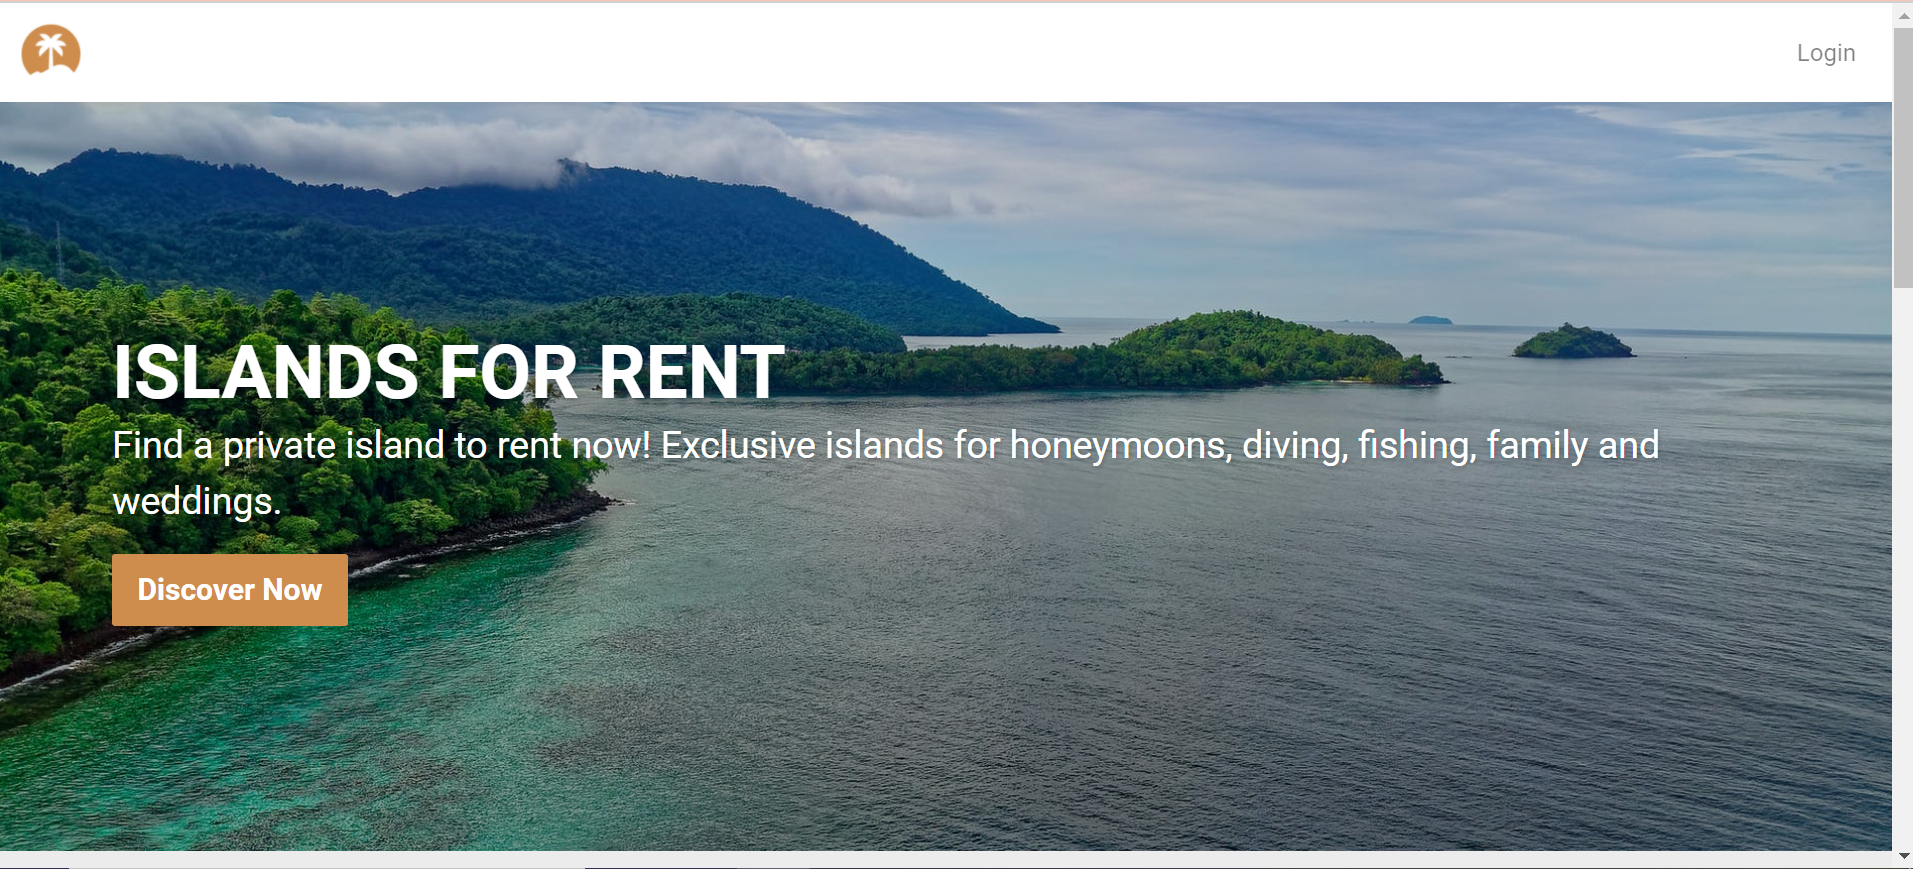
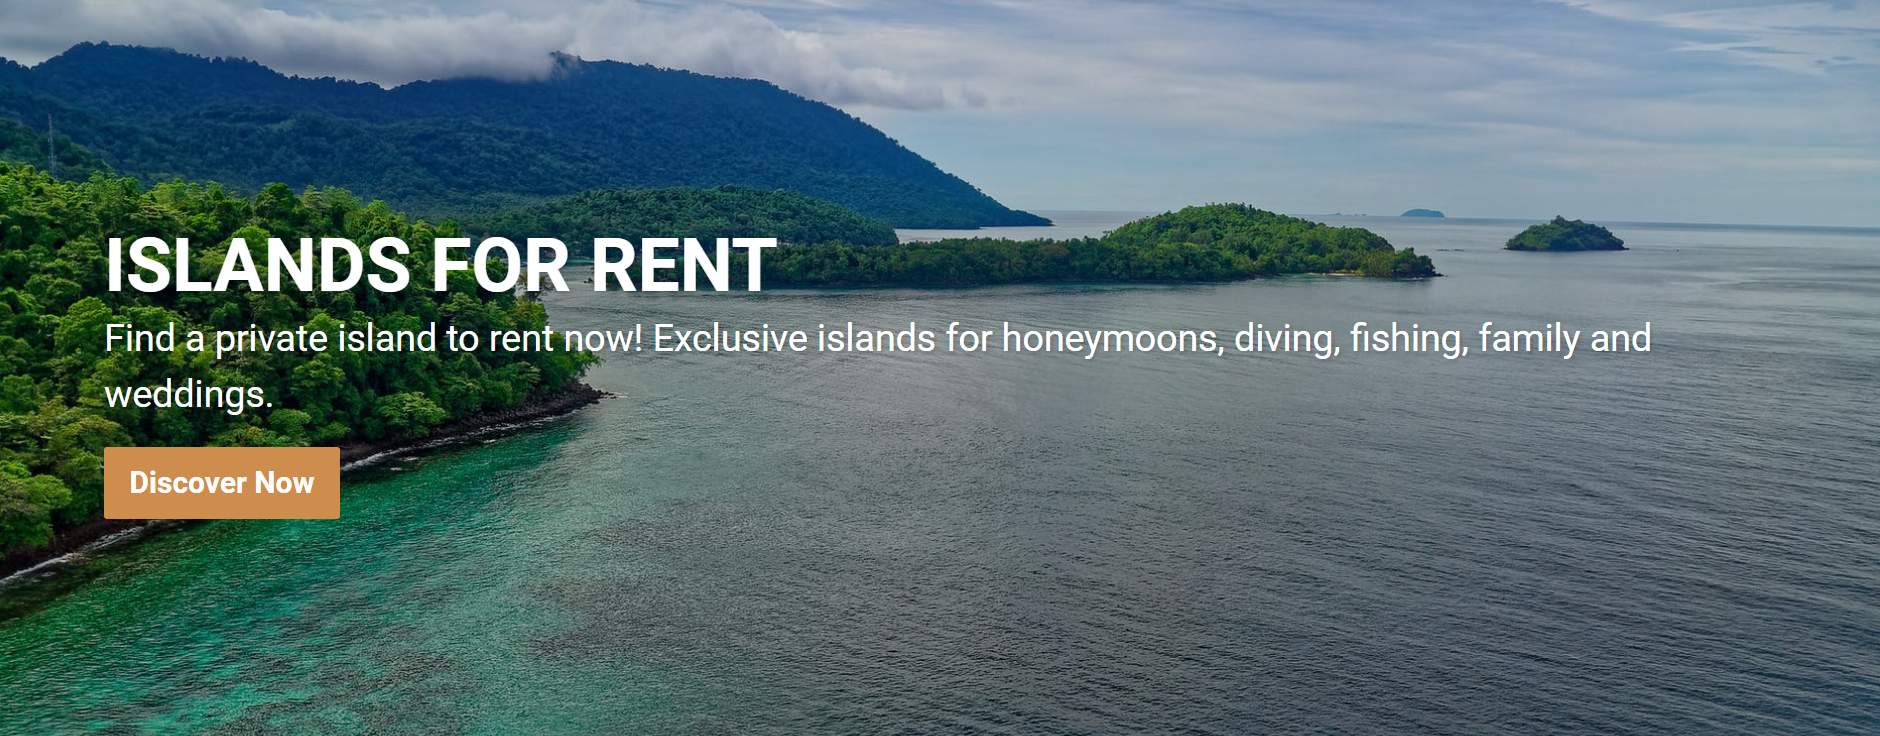
portfolio

diff --git a/style.css b/style.css
@@ -2,6 +2,10 @@
 
 body {
   color: #333;
+  background-image: url(https://images.unsplash.com/photo-1512950050685-b1d4ae63d2df?ixlib=rb-1.2.1&ixid=MnwxMjA3fDB8MHxwaG90by1wYWdlfHx8fGVufDB8fHx8&auto=format&fit=crop&w=869&q=80);
+  background-position: center;
+  background-repeat: no-repeat;
+  background-size: cover;
 }
 
 
@@ -58,23 +62,8 @@ h1 {
   margin: 8px -16px;
 }
 
-.row h2{
+h2{
   text-align: center;
-}
-
-.row > .column {
-  padding: 8px;
-}
-
-.column {
-  float: left;
-  width: 25%;
-}
-
-.row:after {
-  content: "";
-  display: table;
-  clear: both;
 }
 
 .content {
@@ -84,8 +73,13 @@ h1 {
   border-radius: 10px;
 }
 
+.image img{
+  border-radius: 25px;
+}
+
 .content img{
   border-radius: 25px;
+  margin-top: 0px
 }
 
 .content-head{
@@ -95,6 +89,11 @@ h1 {
   margin: 15px;
   background-color: #333;
   border-radius: 20px;
+}
+
+.image img{
+  margin-top: 30px;
+  border-radius: 25px;
 }
 
 .content-head p{
@@ -116,11 +115,128 @@ h1 {
 }
 
 .dev{
-  align-items: center;
-  margin-right: 70px;
+  margin-top: 50px;
 }
 
-.dev h3{
+.dev img{
+  margin-left: 370px;
+  width: 100%;
+}
+
+/* Portfolio Styles */
+
+#projects-heading {
   text-align: center;
+  font-size: 30px;
+  margin-bottom: 40px;
 }
 
+.projects-grid{
+  margin-top: 80px;
+}
+
+.items-wrapper {
+    display: grid;
+    grid-template-columns: 360px 360px;
+    justify-content: center;
+    position: relative;
+    width: 1200px;
+    height: 350px;
+    margin: -20px auto 0;
+}
+
+.item-wrapper {
+    position: relative;
+    width: calc(360px - 30px);
+    height: calc(180px - 30px);
+    background-color: #888887;
+    float:left;
+    margin: 15px;
+    box-sizing: border-box;
+    overflow: hidden;
+    box-shadow: 0 0 7px #2e2e2e,
+    0 0 10px #2e2e2e,
+    0 0 21px #2e2e2e;
+}
+
+.item-wrapper:before {
+    content: '';
+    position: absolute;
+    top: 10px;
+    left: 10px;
+    right: 10px;
+    bottom: 10px;
+    border-top: 2px solid #264e74;
+    border-bottom: 2px solid #264e74;
+    box-sizing: border-box;
+    transition: 0.5s;
+    transform: scaleX(0);
+    opacity: 0;
+    z-index: 0;
+}
+
+.item-wrapper:hover:before {
+    transform: scaleX(1);
+    opacity: 1;
+}
+
+.item-wrapper:after {
+    content: '';
+    position: absolute;
+    top: 10px;
+    left: 10px;
+    right: 10px;
+    bottom: 10px;
+    border-left: 2px solid #264e74;
+    border-right: 2px solid #264e74;
+    box-sizing: border-box;
+    transition: 0.5s;
+    transform: scaleY(0);
+    opacity: 0;
+    z-index: 0;
+}
+
+.item-wrapper:hover:after {
+    transform: scaleY(1);
+    opacity: 1;
+}
+
+.project-img {
+    position: relative;
+    width: 100%;
+    height: 180px;
+    transition: 0.5s;
+}
+
+.item-wrapper:hover img {
+    opacity: .3;
+    transform: scale(1.2);
+}
+
+.text-wrapper {
+    position: absolute;
+    width: 100%;
+    top: 50%;
+    transform: translateY(-50%);
+    z-index: 2;
+    box-sizing: border-box;
+    text-align: center;
+}
+
+.text-wrapper h4 {
+    margin: 0;
+    padding: 0;
+    color: #2c2c2c;
+    font-size: 1.3em;
+    transition: 0.5s;
+    transform: translateY(-50px);
+    opacity: 0;
+    visibility: hidden;
+}
+
+.item-wrapper:hover .text-wrapper h4 {
+    opacity:1;
+    visibility: visible;
+    transform: translateY(0);
+    transition-delay: 0.2s;
+}

diff --git a/index.html b/index.html
@@ -12,9 +12,9 @@
 
 <body>
 
-<div class="banner"
-  style="background-image: linear-gradient(rgba(0,0,0,0.4),rgba(0,0,0,0.4)), url(https://images.unsplash.com/photo-1612740393489-c07577fd55a7?ixlib=rb-1.2.1&ixid=MnwxMjA3fDB8MHxwaG90by1wYWdlfHx8fGVufDB8fHx8&auto=format&fit=crop&w=870&q=80);">
-</div>
+  <div class="banner"
+    style="background-image: linear-gradient(rgba(0,0,0,0.4),rgba(0,0,0,0.4)), url(https://images.unsplash.com/photo-1612740393489-c07577fd55a7?ixlib=rb-1.2.1&ixid=MnwxMjA3fDB8MHxwaG90by1wYWdlfHx8fGVufDB8fHx8&auto=format&fit=crop&w=870&q=80);">
+  </div>
 
 
   <div class="navbar">
@@ -25,13 +25,15 @@
 
   </div>
 
-    <div class="title">
-      <h3>About Me</h3>
-    </div>
+  <div class="title">
+    <h1>About Me</h1>
+  </div>
+
   <div class="content-head">
-    <div class="">
+    <div class="image">
       <img src="images/bhavna.jpg" alt="image" style="width:100px" >
     </div>
+
     <div class="para">
       <p>"Hi, my name is Bhavna Basenoo. I have a bachelor degree in Communication, Media and Journalism. I was always
       interested in the coding world,so after my degree,
@@ -42,31 +44,41 @@
     </div>
   </div>
 
-  <div class="row">
-    <h2>My Projects</h2>
-    <div class="column">
-      <div class="content">
-        <a href="https://rent-island.herokuapp.com/"><img src="images/Capture.PNG" alt="rentanisland" style="width:100%"></a>
-        <h3>Rent An Island</h3>
-        <p></p>
-      </div>
-    </div>
-
-    <div class="column">
-      <div class="content">
-        <a href="https://easy-trip-app.herokuapp.com/"><img src="images/Capture1.PNG" alt="easytrip" style="width:100%"></a>
-        <h3>EasyTrip</h3>
-        <p>Get ready to live your best life !</p>
-      </div>
-    </div>
-  </div>
-
-    <div class="dev">
-      <h3>Tech Tools</h3>
-      <div class="content">
+      <div class="dev">
+        <h2>Tech Tools</h2>
         <img src="images/Web_Dev_Icons.png" alt="image" style="width:30%">
       </div>
-    </div>
+
+    <div class="projects-grid">
+      <div class="project-title">
+          <h2>My Projects</h2>
+        </div>
+      <div class="items-wrapper">
+        <div class="item-wrapper">
+          <div class="item-content-wrapper">
+            <div class="img-wrapper">
+              <img class="project-img" src="images/Capture.PNG" alt="rent an island">
+            </div>
+            <div class="text-wrapper">
+              <a href="https://rent-island.herokuapp.com/" target="_blank"><h4 class="project-title ">Rent An Island</h4></a>
+            </div>
+          </div>
+        </div>
+
+
+        <div class="item-wrapper">
+          <div class="item-content-wrapper">
+            <div class="img-wrapper">
+              <img class="project-img"
+                  src="images/Capture1.PNG" alt="Easy Trip">
+            </div>
+            <div class="text-wrapper">
+              <a href="https://easy-trip-app.herokuapp.com/" target="_blank"><h4 class="project-title">Easy Trip</h4></a>
+            </div>
+          </div>
+        </div>
+
+      </div>
 
 </body>
 
